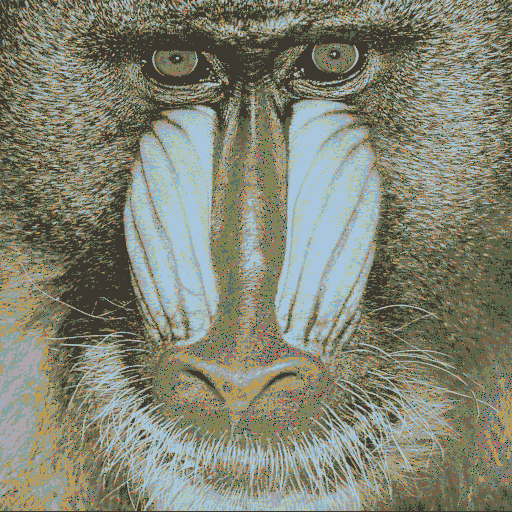
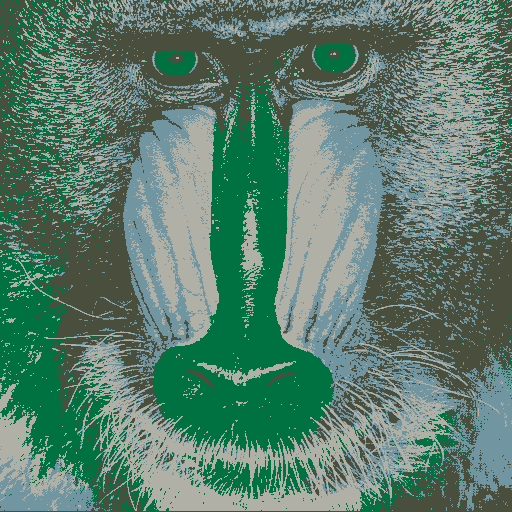
faltung mit flexiblem filter

diff --git a/median_cut.py b/median_cut.py
@@ -1,7 +1,8 @@
 import cv2
 import numpy as np
-from numpy import median, mean
+from numpy import median, mean, argmax, argmin
 import matplotlib.pyplot as plt
+
 
 img_path = 'CT.png'
 img_to_save = 'to_save.png'
@@ -58,17 +59,22 @@ def find_median_cut_in_array_with_num_of_cluster(array_in_2_d, num_cluster):
 
 def find_new_color(item, color_list):
     x = 0 ;
-    while x <= color_list.__len__ () - 1:
-        first = int (round (color_list[x].sum ()))
-        second = int (round (color_list[x + 1].sum ()))
-        diff_one = item.sum () - first
-        diff_two = second - item.sum ()
-        if (diff_one < diff_two):
-            return color_list[x]
-        if (x == color_list.__len__ () - 2):
-            return color_list[x + 1]
-        x = x + 1
-    return color_list[0]
+    # while x <= color_list.__len__ () - 1:
+    #     first = int (round (color_list[x].sum ()))
+    #     second = int (round (color_list[x + 1].sum ()))
+    #     diff_one = item.sum () - first
+    #     diff_two = second - item.sum ()
+    #     if (diff_one < diff_two):
+    #         return color_list[x]
+    #     if (x == color_list.__len__ () - 2):
+    #         return color_list[x + 1]
+    #     x = x + 1
+
+    distances = [np.linalg.norm(cluster - item) for cluster in color_list]
+
+    color_index =  argmin(np.array(distances))
+
+    return color_list[color_index]
 
 
 
@@ -95,8 +101,9 @@ def median_cut(img_path, path_to_save, color_count):
     # save image
     image = int_image2.astype(np.uint8)
     cv2.imshow ('matrix', image)
-    cv2.waitKey (0)
+    cv2.waitKey (1000)
     cv2.imwrite (path_to_save, image)
+    cv2.destroyAllWindows()
     return image
 
 if __name__ == '__main__':
@@ -113,10 +120,11 @@ if __name__ == '__main__':
 
     #median_cut('Baboon.png', img_to_save2, 2)
     # print ("mediancut_list.pop().pop().dtype", mediancut_list.pop().pop().dtype)
-    result_image = median_cut('Baboon.png', 'Baboon_2_color.png', 16)
+    result_image = median_cut('Baboon.png', 'Baboon_2_color.png', 4)
     plt.imshow(result_image)
-    plt.show()
-    plt.close()
-    from PIL import Image
-    im = Image.fromarray(result_image)
-    im.save("Baboon_16_colorAsPIL.png")
+    # plt.show()
+    # plt.close()
+    # plt.savefig("Baboon_16_colorAsPlt.png")
+    # from PIL import Image
+    # im = Image.fromarray(result_image)
+    # im.save("Baboon_16_colorAsPIL.png")

diff --git a/faltung2.py b/faltung2.py
@@ -1,0 +1,57 @@
+import cv2
+import numpy as np
+import scim as scim
+import scipy as sp
+import scipy.ndimage as scim
+
+def get_binom_vector(n):
+    return np.array([sp.special.binom(n -1, i) for i in range(n)])
+
+
+def generate_binomial_filter(size):
+    vec1 = get_binom_vector(size).reshape(-1,1)
+    vec2 = get_binom_vector(size).reshape(1,-1)
+    #for i in range(size -1):
+    filter =  vec1.dot(vec2)
+    filter = filter/np.sum(filter)
+    return filter
+
+def print_image_in_notebook(result_image):
+    import matplotlib.pyplot as plt
+    plt.imshow(result_image)
+    plt.show()
+    plt.close()
+
+
+def fold_the_pic(image, weight):
+    result_image = []
+    image = np.array(image)
+    for i in range(image.shape[2]):
+        result_image.append(scim.correlate(image[:, :, i], weight, output=int, mode='mirror'))
+    return np.moveaxis(result_image, 0, 2)
+
+
+if __name__ == '__main__':
+
+    filter_3x3 = np.array([[1,2,1],
+                           [2,4,2],
+                           [1,2,1]]) /16
+
+    kern = generate_binomial_filter(3)
+    image = cv2.cvtColor (cv2.imread ("Lena.png"), cv2.COLOR_BGR2RGB)
+    image = cv2.cvtColor (cv2.imread ("Lena.png"), cv2.COLOR_BGR2RGB)
+    result_image = fold_the_pic(image, filter_3x3)
+    print_image_in_notebook(result_image)
+    print(kern)
+    weights = np.array([[0, 1, 0],
+                        [1, 1, 1],
+                        [0, 1, 0]])
+    print(weights)
+
+    print("image[3][3][:]", image[3][3][:])
+    print("image.shape", image.shape)
+    print("image.type", image.dtype)
+    new_image = fold_the_pic(image, kern)
+
+    print_image_in_notebook(image)
+    print_image_in_notebook(new_image)

diff --git a/faltungsfilter.py b/faltungsfilter.py
@@ -62,7 +62,7 @@ if __name__ == '__main__':
     # cv2.imwrite ("Baboon3x3gaus.png", result_img)
 
     img_path = 'Baboon.png'
-    image = cv2.cvtColor (cv2.imread (img_path), cv2.COLOR_BGR2RGB)
+    # image = cv2.cvtColor (cv2.imread (img_path), cv2.COLOR_BGR2RGB)
 
     filter_3x3_gaus = np.array([[1,2,1],
                                 [2,4,2],
@@ -72,10 +72,16 @@ if __name__ == '__main__':
                            [2,4,2],
                            [1,2,1]])
 
-    image = cv2.cvtColor (cv2.imread (img_path), cv2.COLOR_BGR2RGB)
-    result_img = fold_filter_3x3(image, filter_3x3_gaus)
-    from PIL import Image
-    im = Image.fromarray(result_img)
-    im.save("Baboon3x3GausAsPIL.png")
+    # image = cv2.cvtColor (cv2.imread (img_path), cv2.COLOR_BGR2RGB)
+    # result_img = fold_filter_3x3(image, filter_3x3_gaus)
+    # from PIL import Image
+    # im = Image.fromarray(result_img)
+    # im.save("Baboon3x3GausAsPIL.png")
+    from PIL import Image, ImageOps
+    import numpy as np
+    import matplotlib.pyplot as plt
+    from PIL import Image, ImageOps
+
+
 
 

diff --git a/binomialfiltergeneriereung.py b/binomialfiltergeneriereung.py
@@ -1,0 +1,20 @@
+import numpy as np
+
+
+
+if __name__ == '__main__':
+    sqares = 16
+
+    filter = np.poly1d([1, 1])**sqares
+    normaliser = 2**sqares
+
+    print("filter ", filter)
+    print("normaliser", normaliser);
+
+    def binomcoeffs(n):
+        return (np.poly1d([0.5, 0.5])**n).coeffs
+
+    print("4: ", binomcoeffs(4))
+    print("6: ", binomcoeffs(6))
+    print("8: ", binomcoeffs(8))
+    print("12: ", binomcoeffs(12))
